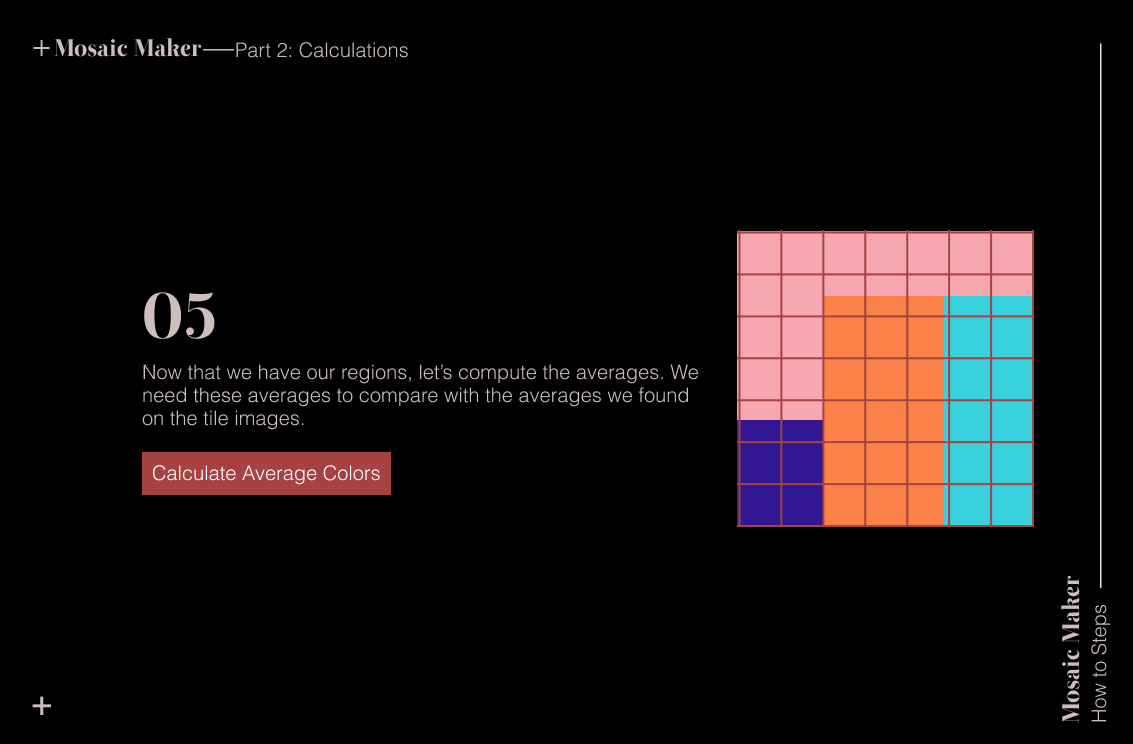
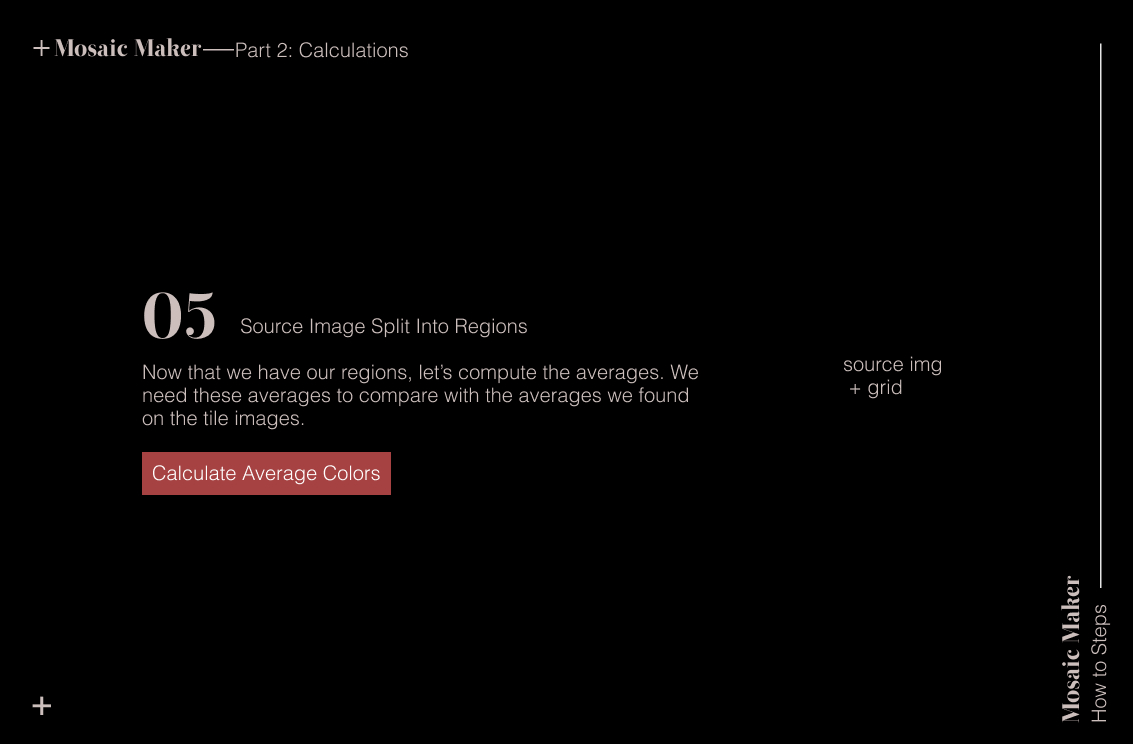
some screens still need tweaking but most of the components are there... also fixed the final mosaic image showing only one tile :))

Changed region(s): [[0.6487, 0.3091, 0.9267, 0.711], [0.2162, 0.4328, 0.4634, 0.4637]]

diff --git a/IAT455 Image Mosaic/src/MosaicOp.java b/IAT455 Image Mosaic/src/MosaicOp.java
@@ -77,10 +77,10 @@ public class MosaicOp {
 	
 
 	//testing without tile images. tile effect on original image
-	private BufferedImage mosaicTest1(BufferedImage src, int tileSize) {
-		BufferedImage result = new BufferedImage(width, height, src.getType());
+	public BufferedImage computeAvgColorInImage(BufferedImage src, int tileSize) {
+		BufferedImage result = new BufferedImage(src.getWidth(), src.getHeight(), src.getType());
 
-		int numTiles = width/tileSize;
+		int numTiles = src.getWidth()/tileSize;
 		
 		int posX, posY;
 		for (int i = 0; i < numTiles; i++) { //y
@@ -88,12 +88,7 @@ public class MosaicOp {
 			for (int j = 0; j < numTiles; j++) { //x
 				//for each tile
 				posX = tileSize*j; //top left corner of the tile in x-axis
-				
-				//TEST 1 -- completed
-//				change the whole tile to the color of pixel in top left corner of tile
-				int rgb = src.getRGB(posX, posY); //color of pixel in top left corner of tile
-				
-				//TEST 2 -- completed
+
 				//find average color in tile and set the tile to that
 				// for loop to iterate through each pixel in tile
 				int red = 0, green = 0, blue = 0;
@@ -107,27 +102,15 @@ public class MosaicOp {
 						green += Util.getGreen(rgba);
 						blue += Util.getBlue(rgba);
 					}
-					
 				}
 				red = Util.clip(red/tileSize);
 				green = Util.clip(green/tileSize);
 				blue = Util.clip(blue/tileSize);
-				int rgba = new Color(red, green, blue).getRGB();	
-				
-//				srcColorAvgs.add(new Color(rgba));
-				
-								
-				/* Algorithm:
-				 * - Reduce source tile to lowest bits
-				 * - Obtain color from the source tile
-				 * - Color match with source tile color to color of tile images
-				 * - Best match = replace source tile with tile image
-				 */
+				int rgba = new Color(red, green, blue).getRGB();					
 				
 				// for loop to iterate through each pixel in tile
 				for (int k = 0; k < tileSize; k++) { //y
 					for (int l = 0; l < tileSize; l++) {//x
-//						result.setRGB(posX+l, posY+k, rgb); // use top left corner in tile
 						result.setRGB(posX+l, posY+k, rgba); // use average color in tile
 					}
 				}
@@ -136,7 +119,7 @@ public class MosaicOp {
 		return result;
 	}
 	
-	private ArrayList<Color> calculateSrcColorAvgs(BufferedImage src, int tileSize) {
+	public ArrayList<Color> calculateSrcColorAvgs(BufferedImage src, int tileSize) {
 		ArrayList<Color> avgCols = new ArrayList<Color>();
 		int numTiles = width/tileSize;
 		
@@ -181,7 +164,7 @@ public class MosaicOp {
 	}
 	
 	// NOT TESTED
-	private ArrayList<TileImage> computeBestMatches(ArrayList<TileImage> tiles, ArrayList<Color> srcColorAverages) {
+	public ArrayList<TileImage> computeBestMatches(ArrayList<TileImage> tiles, ArrayList<Color> srcColorAverages) {
 		
 		//sort tile image averages
 //		ArrayList<TileImage> tilesSorted = sortByAscendingAvgTileColor(tiles);
@@ -253,8 +236,9 @@ public class MosaicOp {
 				second_closestTile=closestTile;
 				second_closestDiff = closestDiff;
 				
-				
+				closestTile = tile;
 				closestDiff = currDiff;
+				
 						
 			}
 		}
@@ -296,7 +280,8 @@ public class MosaicOp {
 	}
 	
 //	SOURCE: https://stackoverflow.com/questions/4593469/java-how-to-convert-rgb-color-to-cie-lab
-//	Goal: to convert rgb to 
+//	Goal: to convert rgb to cie lab color space
+	// NOT USED----
 	public static float[] fromRGB(int r, int g, int b) {
 	    return ColorSpace.getInstance(ColorSpace.CS_CIEXYZ).fromRGB(new float[]{r / 255f, g / 255f, b / 255f});
 	}
@@ -326,6 +311,65 @@ public class MosaicOp {
 					int rgb = currImg.getRGB(j, k);
 					result.setRGB(x+j, y+k, rgb);
 				}
+			}
+		}
+		
+		return result;
+	}
+	
+	// FIX CALCULATION
+	public BufferedImage addGrid(BufferedImage img, int tileSize, int strokeWeight) {
+		int w = img.getWidth();
+		int h = img.getHeight();
+		int c = Color.cyan.getRGB();
+		int numTiles = h/tileSize;
+		BufferedImage result = new BufferedImage(w, h, img.getType());
+		
+		//assign result to original image
+		for (int g = 0; g < w; g++) {
+			for (int f = 0; f < h; f++) {
+				result.setRGB(g, f, img.getRGB(g, f));			
+			}
+		}
+
+		// mark the outer border of image
+		//top + bottom
+		for (int i = 0; i < w; i++) {
+			for (int j = 0; j < strokeWeight; j++) {
+				result.setRGB(i, j, c); //top
+				result.setRGB(i, h-j-1, c);	//bottom			
+			}
+		}
+		// left + right
+		for (int i = 0; i < h; i++) {
+			for (int j = 0; j < strokeWeight; j++) {
+				result.setRGB(j, i, c); //left
+				result.setRGB(w-j-1, i, c);	//right		
+			}
+		}
+		
+		//mark the inner grid lines
+		for (int i = 0; i < numTiles; i++) { //y
+			int posY = (tileSize)*i; //top left corner of tile in y-axis
+			for (int j = 0; j < numTiles; j++) { //x
+				int posX = (tileSize)*j; //top left corner of the tile in x-axis
+				
+				//fill to the right until next tile
+				for (int k = 0; k < tileSize; k++) {
+					//fill stroke weight to the right
+					for (int l = 0; l < strokeWeight; l++) {
+						result.setRGB(posX+k, posY+l, c);
+					}
+				}
+				
+				//fill downward until next tile
+				for (int k = 0; k < tileSize; k++) {
+					//fill stroke weight downwards
+					for (int l = 0; l < strokeWeight; l++) {
+						result.setRGB(posX+l, posY+k, c);
+					}
+				}
+				
 			}
 		}
 		

diff --git a/IAT455 Image Mosaic/main/MosaicPanel.java b/IAT455 Image Mosaic/main/MosaicPanel.java
@@ -96,6 +96,7 @@ public class MosaicPanel extends JPanel implements ActionListener {
 	BufferedImage sourceImage;
 	TileImage tileImage;
 	MosaicOp operations;
+	int userChosenTileSize;
 		
 	public MosaicPanel() {
 		//UNCOMMENT TO DRAW APPLICATION (COMMENTED OUT DURING TESTING)
@@ -109,7 +110,7 @@ public class MosaicPanel extends JPanel implements ActionListener {
 		addMouseMotionListener(mml);
 		
 		if (loadScreenImages()) { //new UI
-			currentScreen = 0;
+			currentScreen = MAIN8;
 			setButtons();
 		}//if
 		
@@ -122,6 +123,7 @@ public class MosaicPanel extends JPanel implements ActionListener {
 		timer = new Timer(30, this);
 		timer.start();
 		animationTimer = TIME_BETWEEN_FRAMES;
+		userChosenTileSize = 60; //will change based on what the user chooses, this is the default
 	}
 	
 	//methods to load images from file. returns false if error occurs
@@ -270,41 +272,72 @@ public class MosaicPanel extends JPanel implements ActionListener {
 		case INTRO3:
 			break;
 			
-		case MAIN1:
-			if (tileImage != null) tileImage.draw(g2, 725, 233);
+		case MAIN1: //tile image
+			if (tileImage != null) tileImage.draw(g2, 725, 233, 1);
 			break;
 		
-		case MAIN2:
-			if (tileImage != null) tileImage.drawBackgroundRemoved(g2, 725, 233);
+		case MAIN2: //tile image with removed background
+			if (tileImage != null) tileImage.drawBackgroundRemoved(g2, 725, 233, 1);
 			break;
 			
-		case MAIN3:
+		case MAIN3: //animation
 			animation.draw(g2);
 			break;
 			
-		case MAIN4:
+		case MAIN4: //source image
 			if (sourceImage != null) g2.drawImage(sourceImage, 725, 233, SCALED_UI_IMAGE_SIZE, SCALED_UI_IMAGE_SIZE, null);
 			break;
 		
-		case MAIN5:
+		case MAIN5: //source image with grid
+			BufferedImage grid = operations.addGrid(sourceImage, 120, 5);
+			g2.drawImage(grid, 725, 233, SCALED_UI_IMAGE_SIZE, SCALED_UI_IMAGE_SIZE, null);
 			break;
 			
-		case MAIN6:
+		case MAIN6: //source avg colors + tile avg colors
+			if (sourceImage != null && tileImage != null) {
+				//draw source image
+				g2.drawImage(sourceImage, 700, 160, SCALED_UI_IMAGE_SIZE/2, SCALED_UI_IMAGE_SIZE/2, null);
+				//draw tile image
+				tileImage.drawBackgroundRemoved(g2, 700, 350, 0.5);
+				
+				// draw avg color image of source image
+				BufferedImage srcImg_avgColors = operations.computeAvgColorInImage(sourceImage, userChosenTileSize);
+				g2.drawImage(srcImg_avgColors, 875, 160, SCALED_UI_IMAGE_SIZE/2, SCALED_UI_IMAGE_SIZE/2, null);
+				
+				// draw avg color image of tile image
+				BufferedImage bkgRm = tileImage.getBackgroundRemovedImage();
+				BufferedImage tileImg_avgColors = operations.computeAvgColorInImage(bkgRm, bkgRm.getHeight());
+				g2.drawImage(tileImg_avgColors, 875, 350, SCALED_UI_IMAGE_SIZE/2, SCALED_UI_IMAGE_SIZE/2, null);
+				
+			}
 			break;
 			
-		case MAIN7:
+		case MAIN7: //source image + reordered tiles
+			//draw source image
+			g2.drawImage(sourceImage, 700, 160, SCALED_UI_IMAGE_SIZE/2, SCALED_UI_IMAGE_SIZE/2, null);
+			
+			//draw reordered tiles
+			ArrayList<Color> srcColorAvgs = operations.calculateSrcColorAvgs(sourceImage, userChosenTileSize);
+			ArrayList<TileImage> orderedTiles = operations.computeBestMatches(tileImgs, srcColorAvgs);
+			drawFromTileArray(g2, orderedTiles, 25, 5, 60, 60, 860, 160);
 			break;
 		
-		case MAIN8:
+		case MAIN8: //final mosaic image
 			BufferedImage mosaicImage = operations.getMosaicImage();
 			if (mosaicImage != null) g2.drawImage(mosaicImage, 725, 233, SCALED_UI_IMAGE_SIZE, SCALED_UI_IMAGE_SIZE, null);
-
 			break;
 			
 		default:
 			break;
 		}
 
+	}
+
+	//NOT COMPLETE
+	private void drawFromTileArray(Graphics2D g2, ArrayList<TileImage> orderedTiles, int numTiles, int numCols, int tileW,
+			int tileH, int xPos, int yPos) {
+//		for (int i = 0; i <)
+		g2.drawImage(orderedTiles.get(0).getBackgroundRemovedImage(), xPos, yPos, tileW, tileH, null);
 	}
 
 	@Override

diff --git a/IAT455 Image Mosaic/src/TileImage.java b/IAT455 Image Mosaic/src/TileImage.java
@@ -15,9 +15,12 @@ public class TileImage {
 	private BufferedImage image, bkgRemoved;
 	private Color avgCol;
 	private String name;
+	private int w, h;
 	
 	public TileImage(String name, String outputName, int w, int h) {
 		this.name = name;
+		this.w = w;
+		this.h = h;
 		try {
 			// scales the image into a square
 			Util.resize(name, outputName, w, h);
@@ -32,12 +35,12 @@ public class TileImage {
 		}
 	}
 	
-	public void draw(Graphics2D g2, int xPos, int yPos) {
-		g2.drawImage(image, xPos, yPos, null);
+	public void draw(Graphics2D g2, int xPos, int yPos, double scale) {
+		g2.drawImage(image, xPos, yPos, (int)(w*scale), (int)(h*scale), null);
 	}
 	
-	public void drawBackgroundRemoved(Graphics2D g2, int xPos, int yPos) {
-		g2.drawImage(bkgRemoved, xPos, yPos, null);
+	public void drawBackgroundRemoved(Graphics2D g2, int xPos, int yPos, double scale) {
+		g2.drawImage(bkgRemoved, xPos, yPos, (int)(w*scale), (int)(h*scale), null);
 	}
 	
 	public BufferedImage getImage() {
